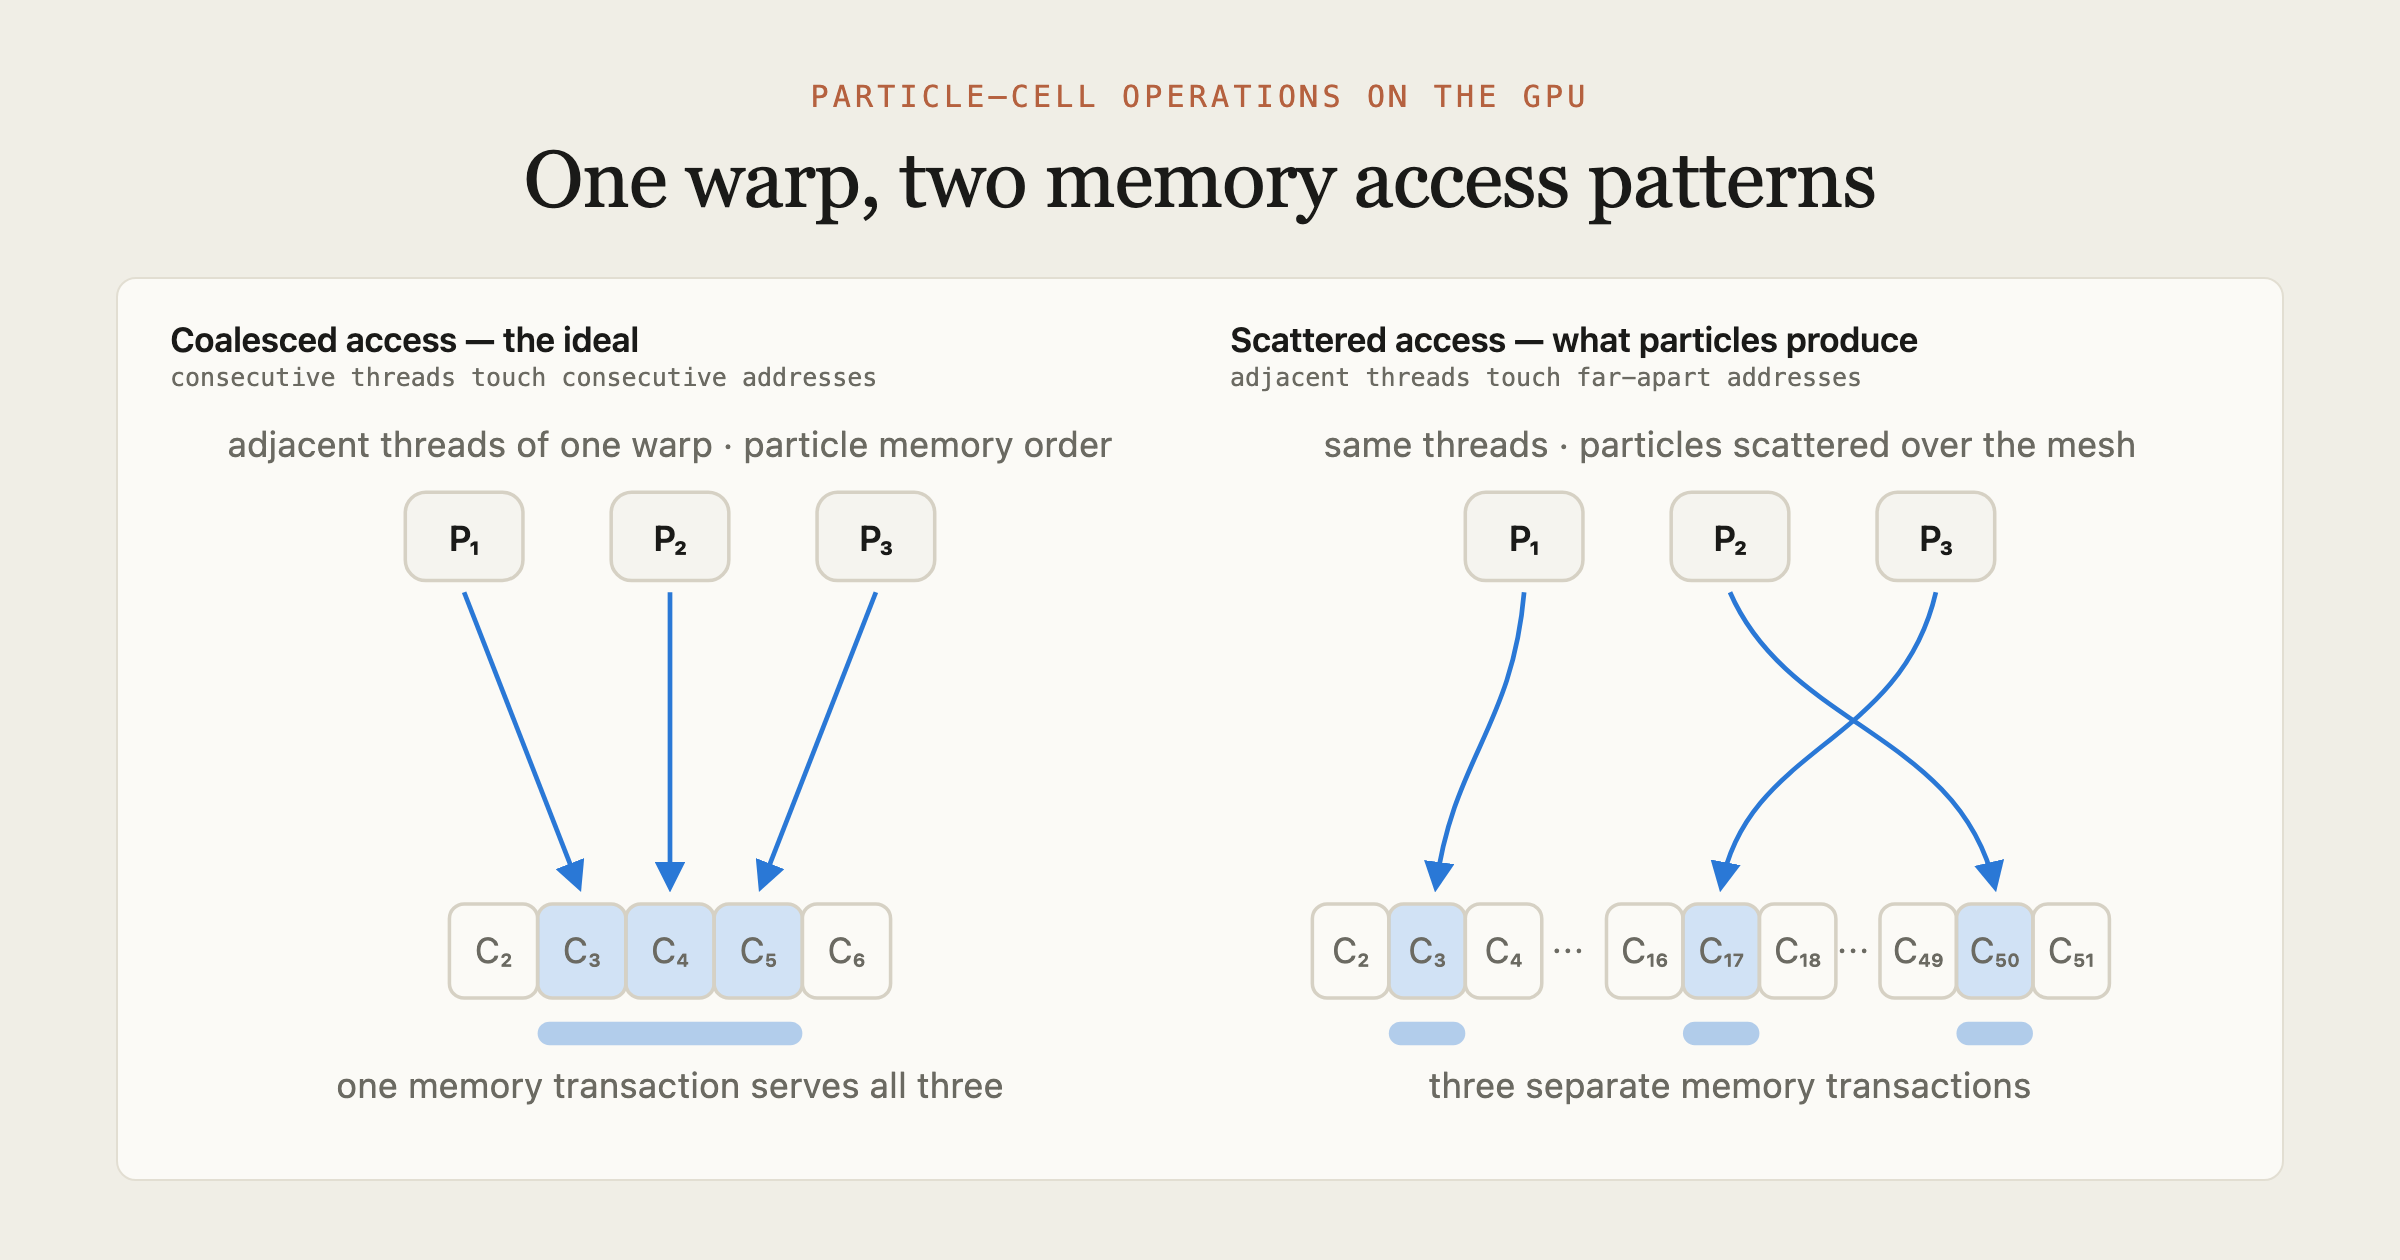
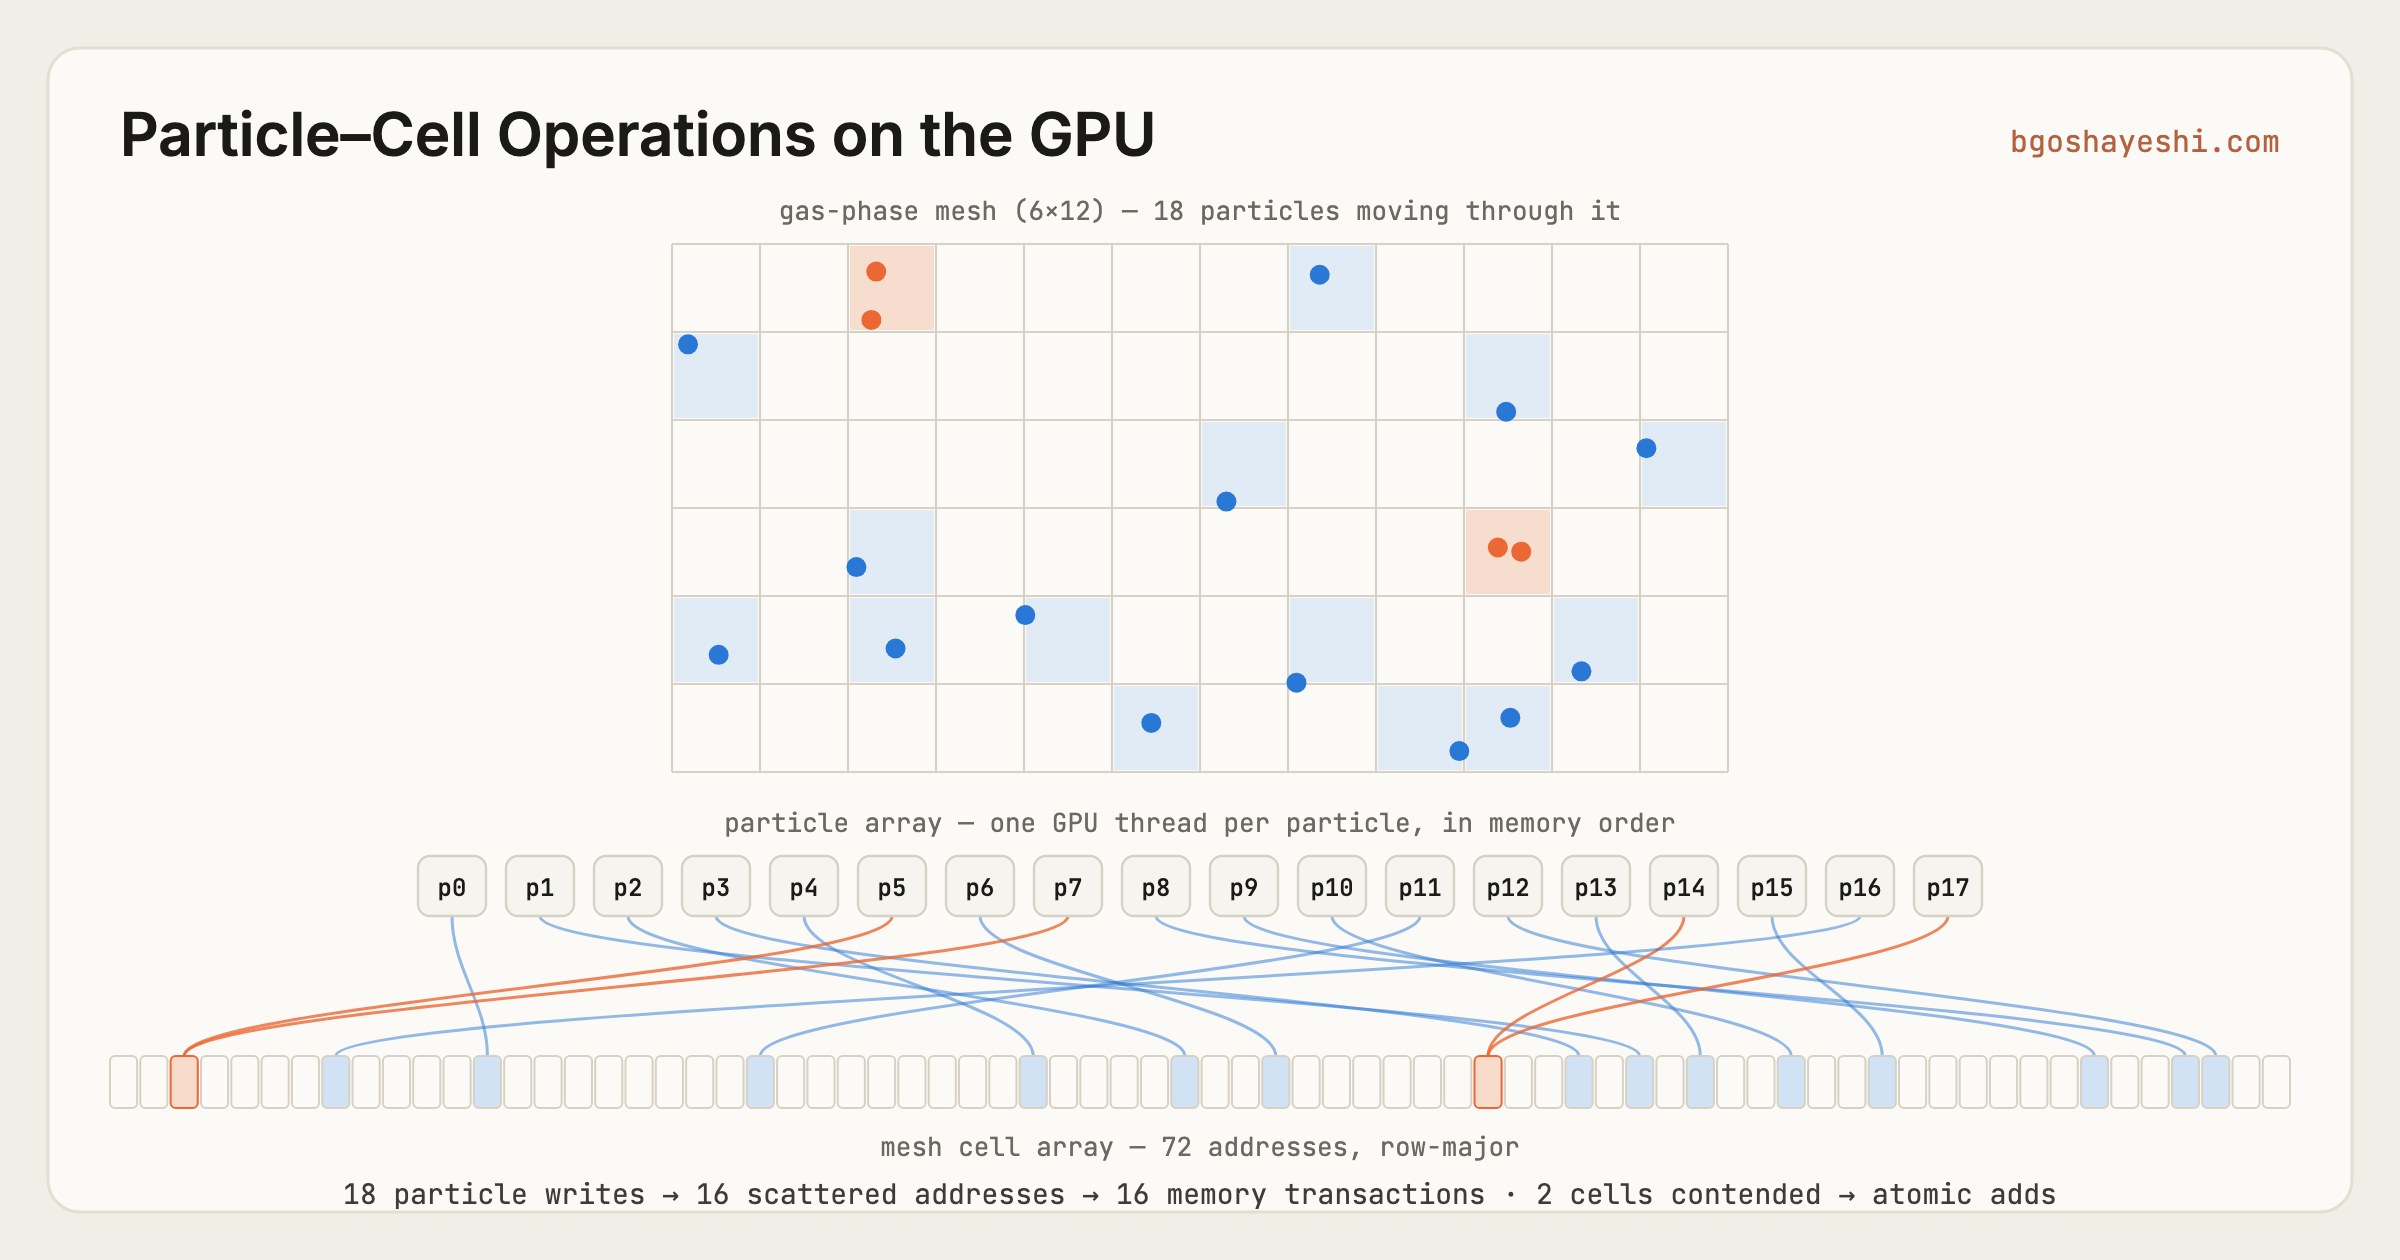
change particle-cell operation OG

diff --git a/blog/particle-cell-operation-gpu/index.html b/blog/particle-cell-operation-gpu/index.html
@@ -14,12 +14,12 @@
   <meta property="og:title" content="Particle–Cell Operations Optimization: Algorithm, GPU &amp; CUDA" />
   <meta property="og:description" content="How we cut the cost of particle–cell coupling in a multiphysics CFD code — first by changing the algorithm, then by moving it to the GPU — and the challenges along the way." />
   <meta property="og:url" content="https://bgoshayeshi.com/blog/particle-cell-operation-gpu/" />
-  <meta property="og:image" content="https://bgoshayeshi.com/blog/particle-cell-operation-gpu/og-image.png" />
+  <meta property="og:image" content="https://bgoshayeshi.com/blog/particle-cell-operation-gpu/og-image.png?v=2" />
   <meta property="og:image:width" content="2400" />
   <meta property="og:image:height" content="1260" />
   <meta property="article:published_time" content="2026-08-16" />
   <meta name="twitter:card" content="summary_large_image" />
-  <meta name="twitter:image" content="https://bgoshayeshi.com/blog/particle-cell-operation-gpu/og-image.png" />
+  <meta name="twitter:image" content="https://bgoshayeshi.com/blog/particle-cell-operation-gpu/og-image.png?v=2" />
 
   <link rel="icon" type="image/png" sizes="32x32" href="/assets/favicon-32.png" />
   <link rel="icon" type="image/png" sizes="192x192" href="/assets/favicon-192.png" />
@@ -38,7 +38,7 @@
     "description": "How we cut the cost of particle–cell coupling in a multiphysics CFD code — first by changing the algorithm, then by moving it to the GPU — and the challenges along the way.",
     "datePublished": "2026-08-16",
     "url": "https://bgoshayeshi.com/blog/particle-cell-operation-gpu/",
-    "image": "https://bgoshayeshi.com/blog/particle-cell-operation-gpu/og-image.png",
+    "image": "https://bgoshayeshi.com/blog/particle-cell-operation-gpu/og-image.png?v=2",
     "author": {
       "@type": "Person",
       "name": "Babak Goshayeshi",
